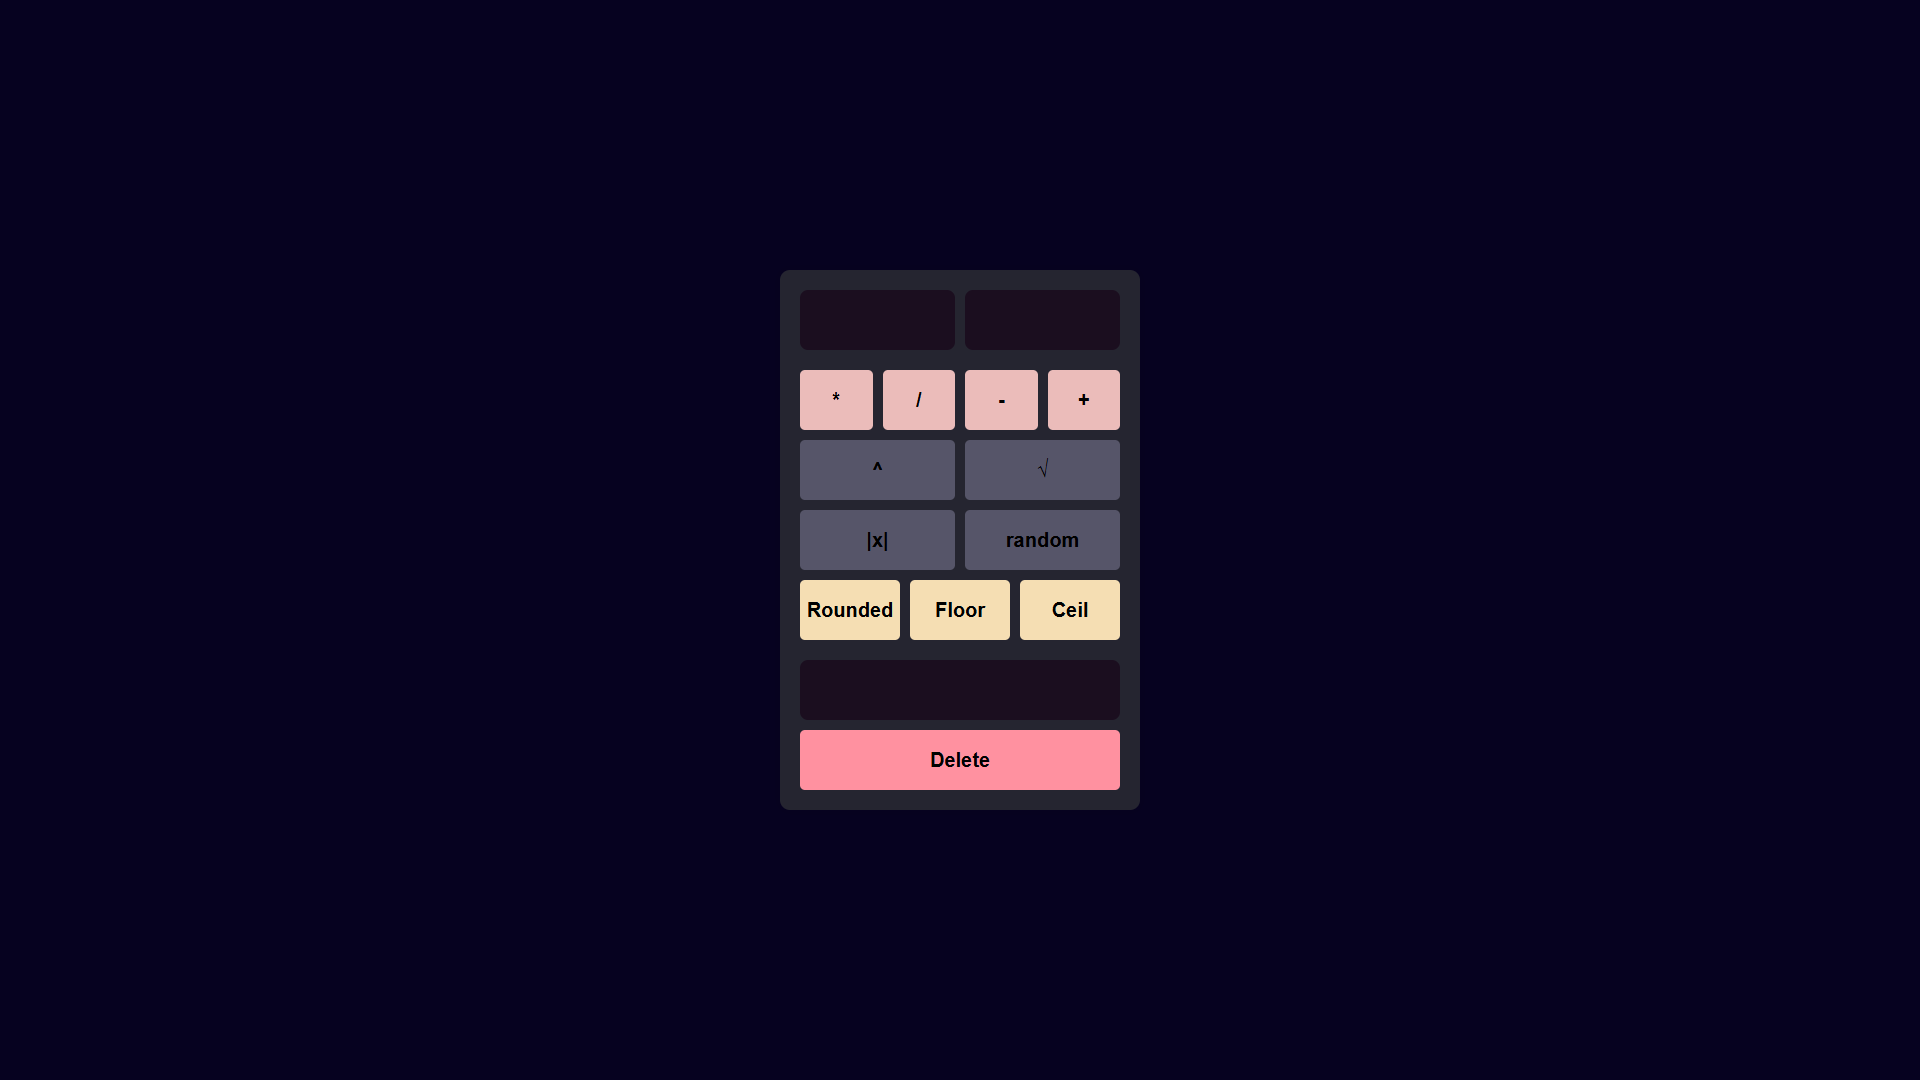
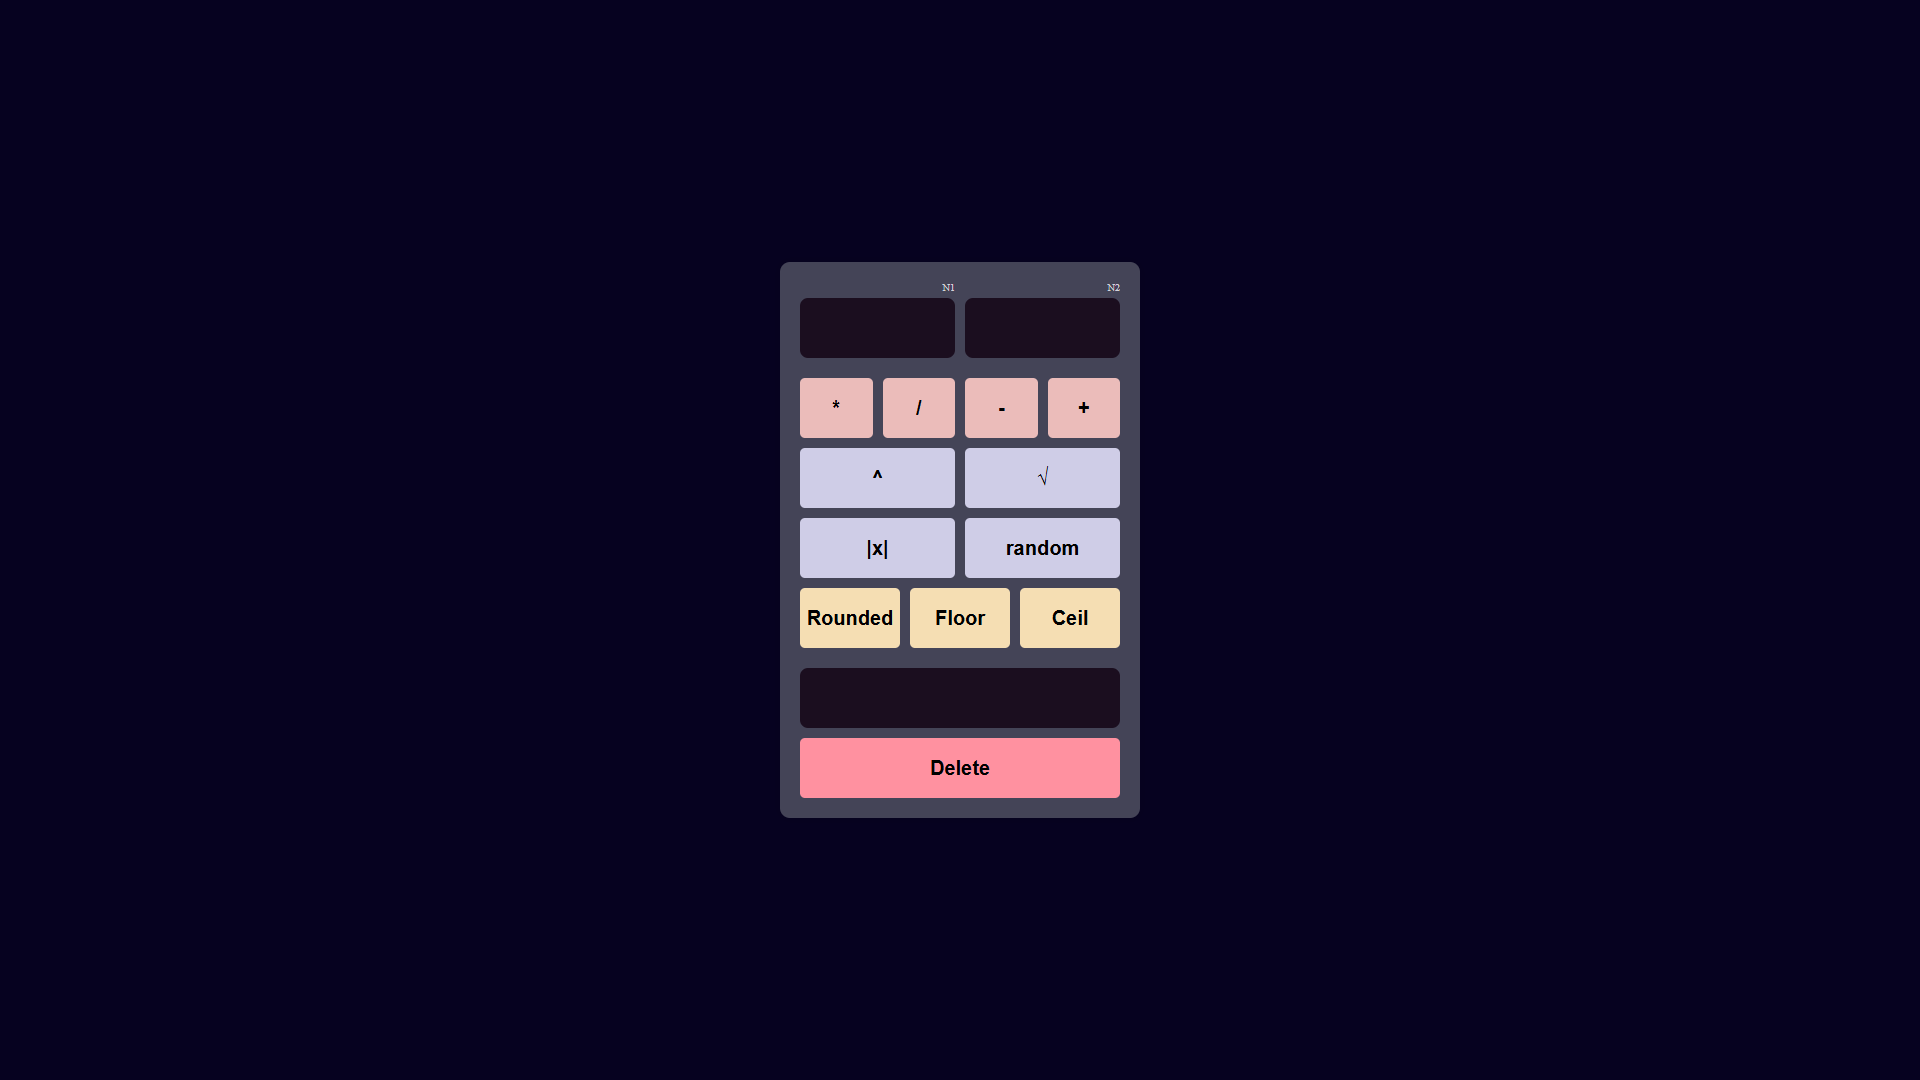
lighthouse 100

Changed region(s): [[0.4062, 0.2444, 0.5938, 0.7639]]

diff --git a/css/styles.css b/css/styles.css
@@ -2,7 +2,7 @@
     --background-Color: #060220;
     --primary-Color: #cfcde7;
     --secondary-Color: #ebbcba;
-    --text-Color: #6e6d75;
+    --text-Color: #d3d3da;
     --border-Color: #26233a;
     --screen-Color: #1b0e1f;
     --tertiary-Color: #f5deb3;
@@ -56,7 +56,7 @@ input {
     margin: 50px auto;
     padding: 20px;
     border-radius: 10px;
-    background-color: #252530;
+    background-color: #444457;
     box-shadow: 0 0 10px rgba(0, 0, 0, 0.1);
 }
 

diff --git a/index.html b/index.html
@@ -3,6 +3,7 @@
 <head>
     <meta charset="UTF-8">
     <meta name="viewport" content="width=device-width, initial-scale=1.0">
+    <meta name="description" content="Simple and efficient online calculator for basic mathematical operations like addition, subtraction, multiplication, and division. Try our free calculator now!">
     <link rel="stylesheet" href="css/styles.css" as="styles">
     <title>Calculator</title>
 </head>

diff --git a/README.md b/README.md
@@ -2,3 +2,7 @@
 
 ![preview](./img/preview.png)
 
+#### LightHouse
+
+![lighthouse](./img/preview-lighthouse.png)
+
